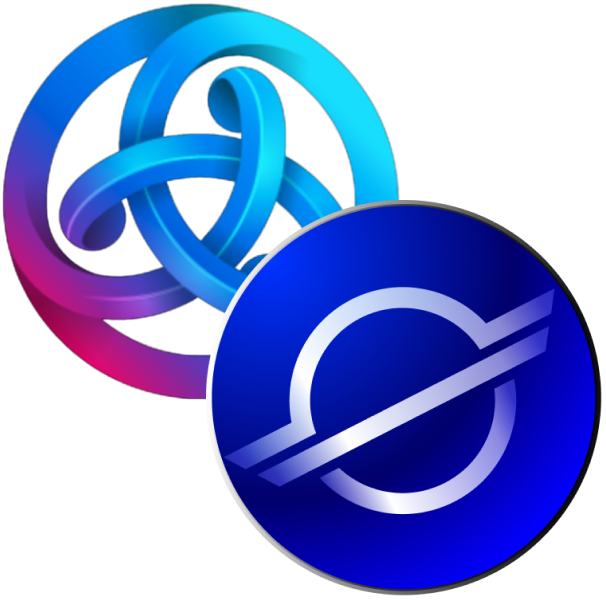
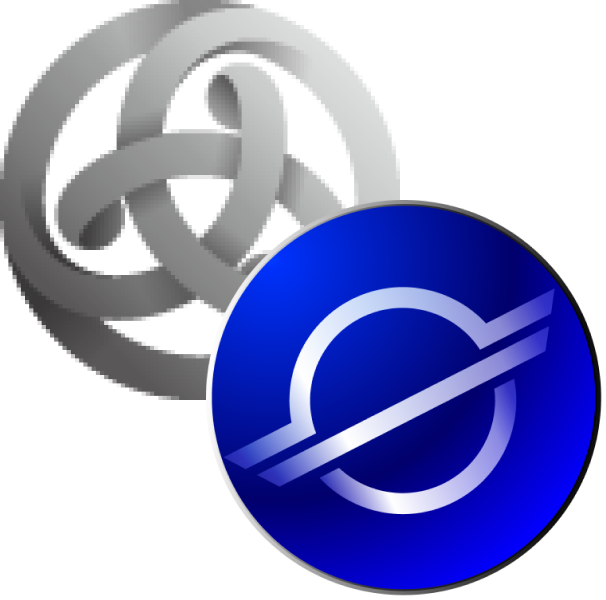
Changed the WASTR case to not use ASTR tokens.

Changed region(s): [[0.0, 0.0, 0.6832, 0.69]]

diff --git a/frontend/src/libra-finance/LibraFinance.ts b/frontend/src/libra-finance/LibraFinance.ts
@@ -56,7 +56,7 @@ export class LibraFinance {
     this.LIBRA = new ERC20(deployments.libra.address, provider, 'LIBRA');
     this.LSHARE = new ERC20(deployments.LShare.address, provider, 'LSHARE');
     this.LBOND = new ERC20(deployments.LBond.address, provider, 'LBOND');
-    this.ASTR_USDC_LP_LIBRAX = new ERC20('0x139B81e5728026FAA8d7Ef6C79bb07f4d912641B', provider, 'ASTR-USDC-LP-LIBRAX');
+    this.ASTR_USDC_LP_LIBRAX = new ERC20('0x139B81e5728026FAA8d7Ef6C79bb07f4d912641B', provider, 'WASTR-USDC-LP-LIBRAX');
     this.USDC = new ERC20('0x6a2d262D56735DbA19Dd70682B39F6bE9a931D98', provider, 'USDC');
     this.ASTR = this.externalTokens['WASTR'];
 
@@ -279,7 +279,7 @@ export class LibraFinance {
           return rewardPerSecond.mul(1000).div(11000).div(24);
         } else if (depositTokenName === 'JPYC') {
           return rewardPerSecond.mul(1500).div(11000).div(24);
-        } else if (depositTokenName === 'ASTR-USDC-LP-LIBRAX') {
+        } else if (depositTokenName === 'WASTR-USDC-LP-LIBRAX') {
           return rewardPerSecond.mul(2500).div(11000).div(24);
         }
         return rewardPerSecond.div(24);
@@ -318,7 +318,7 @@ export class LibraFinance {
         tokenPrice = await this.getLPTokenPrice(token, this.LIBRA, true);
       } else if (tokenName === 'LSHARE-ASTR-LP') {
         tokenPrice = await this.getLPTokenPrice(token, this.LSHARE, false);
-      } else if (tokenName === 'ASTR-USDC-LP-LIBRAX') {
+      } else if (tokenName === 'WASTR-USDC-LP-LIBRAX') {
         // tokenPrice=1;
         //これで、LPに入っているUSDC*2が取得できる。 6 decimals
         const a = (await this.USDC.balanceOf(token.address)).mul(2);

diff --git a/frontend/src/config.ts b/frontend/src/config.ts
@@ -33,7 +33,7 @@ const configurations: { [env: string]: Configuration } = {
       WASTR: ['0xAeaaf0e2c81Af264101B9129C00F4440cCF0F720', 18],
 
       'ASTR-USDC-LP': ['0xBB1290c1829007F440C771b37718FAbf309cd527', 18],
-      'ASTR-USDC-LP-LIBRAX': ['0x139B81e5728026FAA8d7Ef6C79bb07f4d912641B', 18], // LibraX Pair
+      'WASTR-USDC-LP-LIBRAX': ['0x139B81e5728026FAA8d7Ef6C79bb07f4d912641B', 18], // LibraX Pair
       'LIBRA-ASTR-LP': ['0xa34484BE25889A5188Fa42059Af3ceeA428D8e7e', 18], //DUMMY
       'LSHARE-ASTR-LP': ['0x0A8ae90fCd8A4534AbB0013A7Dd79A42073b3dA9', 18], //DUMMY
       LIBRA: ['0x467E086e506C76381D3B8C74BfDCE9D3bB36Ca6D', 18], // DUMMY
@@ -68,7 +68,7 @@ export const bankDefinitions: { [contractName: string]: BankInfo } = {
     poolId: 3, // Must check
     sectionInUI: 0,
     contract: 'UsdcAstarLPGenesisRewardPool',
-    depositTokenName: 'ASTR-USDC-LP-LIBRAX',
+    depositTokenName: 'WASTR-USDC-LP-LIBRAX',
     earnTokenName: 'LIBRA',
     finished: false,
     multiplier: '250x',

diff --git a/frontend/src/components/TokenSymbol/TokenSymbol.tsx b/frontend/src/components/TokenSymbol/TokenSymbol.tsx
@@ -13,6 +13,7 @@ import LshareAstrLPlogo from '../../assets/img/LSHARE-WASTR.png';
 import AstrUsdcLPlogo from '../../assets/img/WASTR-USDC.png';
 
 import astrLogo from '../../assets/libra/ASTR.png';
+import wastrLogo from '../../assets/libra/WASTR.png';
 // import booLogo from '../../assets/img/spooky.png';
 // import belugaLogo from '../../assets/img/BELUGA.png';
 // import twoshareLogo from '../../assets/img/t_2SHARE-01.png';
@@ -50,11 +51,11 @@ const logosBySymbol: { [title: string]: string } = {
   JPYC: JpycLogo,
   // BLOOM: bloomLogo,
   ASTR: astrLogo,
-  WASTR: astrLogo,
+  WASTR: wastrLogo,
   'LIBRA-ASTR-LP': LibraAstrLPlogo,
   'LSHARE-ASTR-LP': LshareAstrLPlogo,
   'ASTR-USDC-LP': AstrUsdcLPlogo,
-  'ASTR-USDC-LP-LIBRAX': AstrUsdcLPlogo,
+  'WASTR-USDC-LP-LIBRAX': AstrUsdcLPlogo,
 };
 
 type LogoProps = {

diff --git a/frontend/src/views/Home/Home.js b/frontend/src/views/Home/Home.js
@@ -352,7 +352,7 @@ const Home = () => {
               <Box mt={2} style={{ backgroundColor: 'transparent !important' }}>
                 <CardIcon style={{ backgroundColor: 'transparent !important' }}>
                   {/* <TokenSymbol symbol="WASTR" style={{ backgroundColor: 'transparent !important' }} /> */}
-                  <TokenSymbol symbol="WASTR" style={{ backgroundColor: 'transparent !important' }} />
+                  <TokenSymbol symbol="ASTR" style={{ backgroundColor: 'transparent !important' }} />
                 </CardIcon>
               </Box>
               Current Price

diff --git a/frontend/src/views/Bank/components/Stake.tsx b/frontend/src/views/Bank/components/Stake.tsx
@@ -143,7 +143,7 @@ const Stake: React.FC<StakeProps> = ({ bank }) => {
                   <RemoveIcon />
                 </IconButton>
                 <StyledActionSpacer />
-                {/* {bank.depositTokenName === 'ASTR-USDC-LP-LIBRAX' ? (
+                {/* {bank.depositTokenName === 'WASTR-USDC-LP-LIBRAX' ? (
                   <>
                     <IconButton
                       disabled={bank.closedForStaking}
